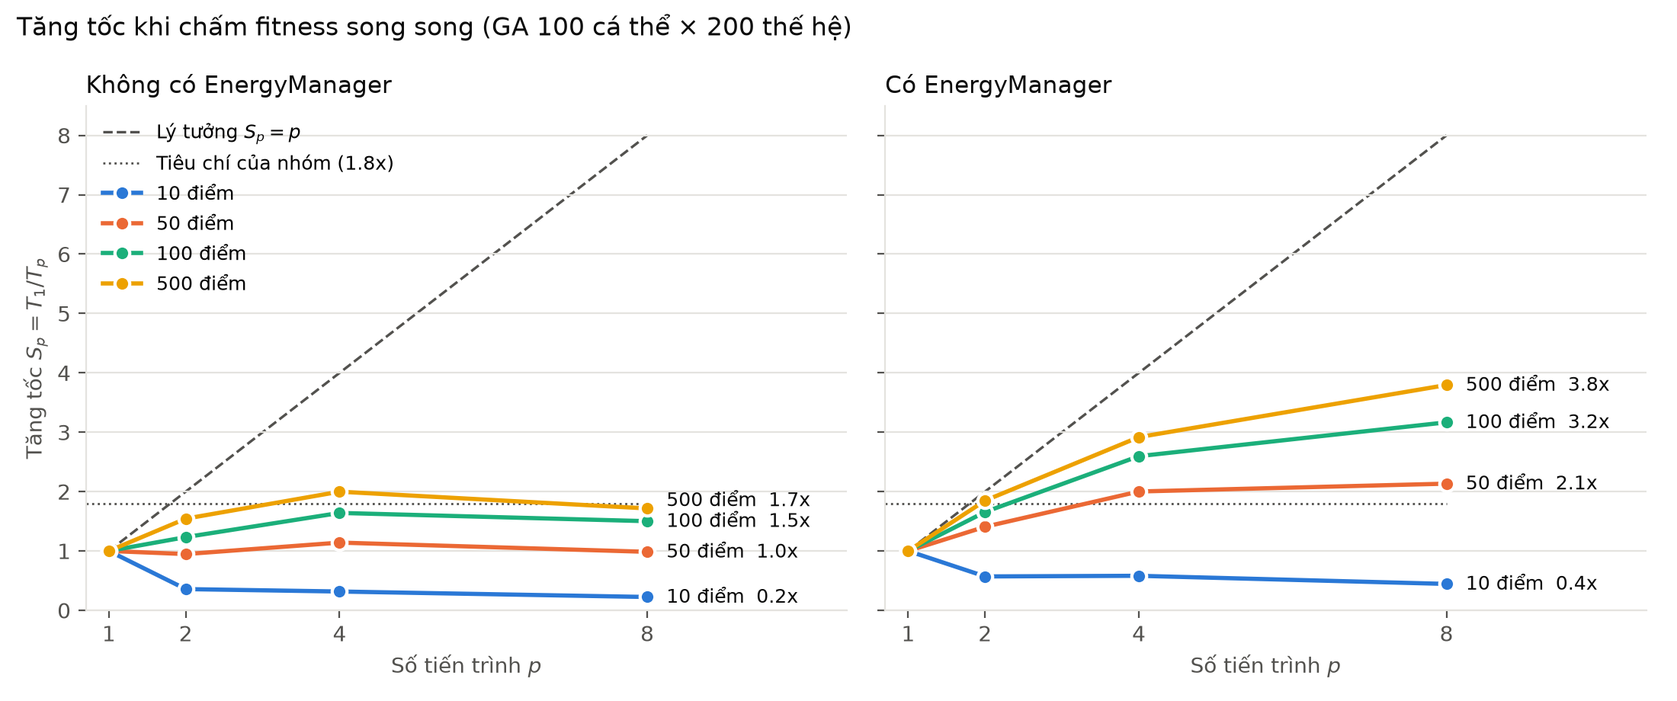
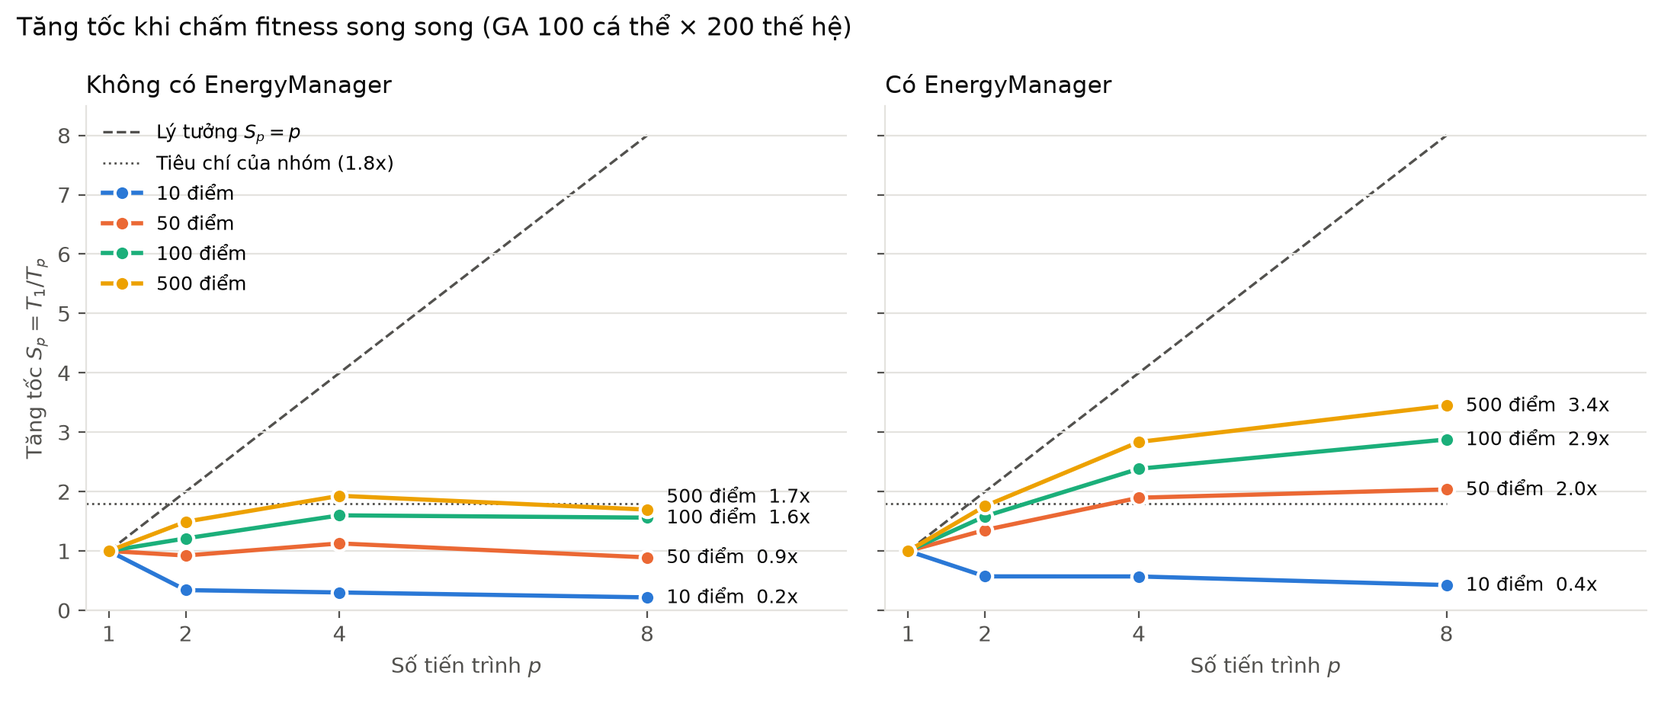
docs: số liệu chốt sau khi sửa 2-Opt/validator, đo lại speedup, sửa tài liệu độ phức tạp và mô hình toán
- GA_TUNING_RESULTS.md mục 13 (số chốt): GA so với Greedy -5.68% / -5.13% / -9.14% ở 10 / 50 / 100 điểm;
  500 điểm GA +7.74% nhưng là lời giải hợp lệ duy nhất (Greedy 6 tuyến cạn pin, validator báo không hợp lệ;
  Greedy 100 điểm cũng không hợp lệ). GA 0 tuyến cạn pin ở mọi quy mô.
- Mục 10 đo lại speedup với EnergyManager mới: 500 điểm 836.6 -> 533.1 ms/thế hệ, S_4 = 2.84x, S_8 = 3.45x;
  data/processed/ga_speedup_results.csv, docs/figures/ga_speedup.png.
- COMPLEXITY_AND_CORRECTNESS_ANALYSIS.md (TV5, được cho phép): độ phức tạp GA O(G·P·(L·C + log P)) có
  EnergyManager + bản song song; ProcessPoolExecutor; hằng số 2-Opt (1e-4, 50 vòng) + lưu ý chi phí;
  phát biểu lại Định lý 4 (Depot là điểm sạc, an toàn pin có điều kiện, chứng minh tính dừng) và
  Định lý 5 (theo thước đo chọn lọc); thay bảng IV.1 (tỷ số đo được) bằng phép kiểm tra ms ÷ L, ÷ L·C.
- Mathematical_Model.md: thêm năng lượng vào hàm mục tiêu (β = 1.5, γ = 5 như code), ràng buộc tải trọng,
  khung giờ, pin (>= 15% khi tới điểm giao, >= 0 khi tới điểm sạc).
- BAO_CAO_TONG_KET_DE_TAI.md §5: sửa đường dẫn trỏ vào máy TV5, độ phức tạp GA, Định lý 3/4/5.
- benchmark_evaluator: câu đánh giá pin đếm trên mọi quy mô thay vì luôn ghi "100% an toàn".
- GA_COMPLEXITY_REVIEW.md: đánh dấu đã áp dụng; TV1_CONTRIBUTION.md theo số mới.

diff --git a/src/utils/benchmark_evaluator.py b/src/utils/benchmark_evaluator.py
@@ -445,7 +445,13 @@ class BenchmarkEvaluator:
                 first = df.iloc[0]
                 savings_pct = ((first['greedy_energy'] - first['ga_energy']) / first['greedy_energy']) * 100.0 if first['greedy_energy'] > 0 else 0.0
                 f.write(f"- **Mức tiết kiệm năng lượng của GA so với Greedy:** **{savings_pct:.2f}%** (Greedy = **{first['greedy_energy']:.2f} Wh**, GA = **{first['ga_energy']:.2f} Wh**).\n")
-                f.write(f"- **Đánh giá An toàn Pin:** Greedy có **{first['greedy_unsafe_routes']}** tuyến không an toàn, GA có **{first['ga_unsafe_routes']}** tuyến không an toàn; do đó **100% các chuyến bay đều đáp ứng điều kiện pin an toàn** trên dữ liệu thực nghiệm hiện tại.\n")
+                # Đếm trên mọi quy mô (không chỉ dòng đầu); kết luận theo số đếm thực tế
+                unsafe_g, unsafe_ga = int(df["greedy_unsafe_routes"].sum()), int(df["ga_unsafe_routes"].sum())
+                if unsafe_g + unsafe_ga == 0:
+                    verdict = "không chuyến bay nào cạn pin trên các quy mô đã chạy"
+                else:
+                    verdict = "các lời giải có tuyến cạn pin bị validator đánh dấu không hợp lệ"
+                f.write(f"- **Đánh giá An toàn Pin (tổng trên {len(df)} quy mô):** Greedy có **{unsafe_g}** tuyến cạn pin, GA có **{unsafe_ga}** tuyến cạn pin; {verdict}.\n")
                 f.write(f"- **Greedy:** tổng năng lượng = **{first['greedy_energy']:.2f} Wh**, số lần sạc = **{int(first['greedy_charging_events'])}**, tổng thời gian sạc = **{first['greedy_total_charge_time_min']:.2f} phút**.\n")
                 f.write(f"- **GA:** tổng năng lượng = **{first['ga_energy']:.2f} Wh**, số lần sạc = **{int(first['ga_charging_events'])}**, tổng thời gian sạc = **{first['ga_total_charge_time_min']:.2f} phút**.\n")
                 f.write(f"- **Ví dụ chi tiết chặng bay (GA):** {first.get('ga_energy_sample', 'Không có dữ liệu chi tiết')}.\n")

diff --git a/docs/GA_TUNING_RESULTS.md b/docs/GA_TUNING_RESULTS.md
@@ -1,7 +1,7 @@
 # Tinh chỉnh & đánh giá Giải thuật Di truyền (GA)
 **Phụ trách:** Thành viên 1 (GA Core Engine) · **Ngày:** 16/10/2026 · **Script:** `src/utils/ga_tuning.py`
 
-> **Cập nhật 25/10/2026:** mục 1–9 đo trên dữ liệu benchmark ngày 16/10. Sau đó TV4 đã đổi khối lượng hàng. Số liệu trên dữ liệu hiện tại (10 / 50 / 100 / 500 điểm, có tỷ lệ đúng giờ và số tuyến thiếu pin) ở **mục 12** (EnergyManager mới của TV3; mục 11 là cùng thực nghiệm với EnergyManager cũ); Speedup song song ở **mục 10**.
+> **Cập nhật 25/10/2026:** mục 1–9 đo trên dữ liệu benchmark ngày 16/10. Sau đó TV4 đã đổi khối lượng hàng. Số liệu trên dữ liệu hiện tại (10 / 50 / 100 / 500 điểm, có tỷ lệ đúng giờ và số tuyến thiếu pin) ở **mục 13** (số liệu chốt: EnergyManager mới của TV3, 2-Opt có kiểm tra chi phí, validator kiểm tra pin; mục 11–12 là các lần đo trước đó); Speedup song song ở **mục 10**.
 
 ## 1. Kết luận chính
 | Quy mô | Greedy + 2-Opt | GA trước tinh chỉnh (cấu hình cũ của pipeline) | GA sau tinh chỉnh (đề xuất) |
@@ -137,21 +137,25 @@ Lệnh `compare` mất khoảng 1 giờ trên máy thường (phần lớn ở b
 
 | Quy mô (độ dài chromosome) | EnergyManager | $T_1$ (s) | ms / thế hệ ($p$ = 1) | $S_2$ | $S_4$ | $S_8$ | $E_4$ |
 | :---: | :---: | ---: | ---: | ---: | ---: | ---: | ---: |
-| 10 điểm (12) | không | 0.35 | 1.7 | 0.36x | 0.32x | 0.22x | 7.9% |
-| 10 điểm (12) | có | 0.68 | 3.4 | 0.57x | 0.58x | 0.44x | 14.5% |
-| 50 điểm (64) | không | 1.71 | 8.5 | 0.95x | 1.14x | 0.99x | 28.5% |
-| 50 điểm (64) | có | 5.03 | 25.2 | 1.41x | **2.00x** | 2.13x | 50.0% |
-| 100 điểm (130) | không | 3.37 | 16.9 | 1.23x | 1.64x | 1.50x | 41.0% |
-| 100 điểm (130) | có | 13.64 | 68.2 | 1.66x | **2.60x** | 3.17x | 64.9% |
-| 500 điểm (649) | không | 17.08 | 85.4 | 1.54x | **2.00x** | 1.72x | 50.0% |
-| 500 điểm (649) | có | 167.32 | 836.6 | **1.85x** | **2.92x** | **3.80x** | 72.9% |
+> **Đo lại 25/10 tối** với EnergyManager mới của TV3 (`faea2f0`: Depot là điểm sạc, không lọc lại danh sách trạm sạc mỗi lần gọi). Mỗi thế hệ có EnergyManager nhanh hơn (500 điểm: 836.6 → 533.1 ms), còn tăng tốc giảm nhẹ (500 điểm: $S_4$ 2.92x → 2.84x, $S_8$ 3.80x → 3.45x) vì phần việc chia được nhẹ đi trong khi phần không chia được giữ nguyên (định luật Amdahl). Bảng dưới là số đo mới; mọi $p$ vẫn cho cùng lời giải và cùng history với chạy tuần tự.
+
+| Quy mô (độ dài chromosome) | EnergyManager | $T_1$ (s) | ms / thế hệ ($p$ = 1) | $S_2$ | $S_4$ | $S_8$ | $E_4$ |
+| :---: | :---: | ---: | ---: | ---: | ---: | ---: | ---: |
+| 10 điểm (12) | không | 0.33 | 1.6 | 0.34x | 0.30x | 0.22x | 7.5% |
+| 10 điểm (12) | có | 0.65 | 3.3 | 0.57x | 0.57x | 0.43x | 14.3% |
+| 50 điểm (64) | không | 1.70 | 8.5 | 0.92x | 1.13x | 0.89x | 28.2% |
+| 50 điểm (64) | có | 4.64 | 23.2 | 1.35x | **1.90x** | **2.04x** | 47.4% |
+| 100 điểm (130) | không | 3.30 | 16.5 | 1.21x | 1.60x | 1.56x | 40.0% |
+| 100 điểm (130) | có | 11.46 | 57.3 | 1.58x | **2.38x** | **2.88x** | 59.6% |
+| 500 điểm (649) | không | 16.77 | 83.8 | 1.49x | **1.93x** | 1.70x | 48.2% |
+| 500 điểm (649) | có | 106.63 | 533.1 | 1.76x | **2.84x** | **3.45x** | 70.9% |
 
 $S_p = T_1 / T_p$, $E_p = S_p / p$. Đậm: đạt tiêu chí của nhóm ($S \ge 1.8$).
 
 **Phân tích:**
-1. **Tăng tốc phụ thuộc chi phí chấm một cá thể.** Ở 500 điểm có EnergyManager, mỗi lần chấm tốn khoảng 8 ms (chèn trạm sạc cho 150 tuyến), nên 4 tiến trình đạt 2.92x và 8 tiến trình đạt 3.80x. Không có EnergyManager, mỗi lần chấm chỉ khoảng 1 ms, nên 4 tiến trình chỉ đạt 2.00x.
-2. **Bài nhỏ chạy song song chậm hơn.** Ở 10 điểm, cả 200 thế hệ chỉ tốn 0.35–0.68 s, ít hơn thời gian khởi động Pool. Trên Windows, mỗi tiến trình con khởi động Python mới và nạp lại `pipeline` cùng matplotlib (~0.6 s; cả Pool 4 tiến trình ~2.5 s ở 500 điểm). Vì vậy nên để `num_workers=None` (tuần tự) khi N ≤ 50 và không dùng EnergyManager.
-3. **Phần không song song được.** Chỉ số Karp-Flatt $e = (1/S_p - 1/p)/(1 - 1/p)$ ở 500 điểm có EnergyManager là 0.08 / 0.12 / 0.16 với p = 2 / 4 / 8. Phần này gồm khởi động Pool, chọn lọc + OX + đột biến ở tiến trình chính (~7 ms / thế hệ) và chi phí gửi chromosome giữa các tiến trình. $e$ tăng theo p, một phần vì chi phí khởi động Pool tăng theo số tiến trình, một phần do nhân tiết kiệm điện (mục 4).
+1. **Tăng tốc phụ thuộc chi phí chấm một cá thể.** Ở 500 điểm có EnergyManager, mỗi lần chấm tốn khoảng 5 ms (chèn trạm sạc cho 150 tuyến), nên 4 tiến trình đạt 2.84x và 8 tiến trình đạt 3.45x. Không có EnergyManager, mỗi lần chấm chỉ khoảng 1 ms, nên 4 tiến trình chỉ đạt 1.93x.
+2. **Bài nhỏ chạy song song chậm hơn.** Ở 10 điểm, cả 200 thế hệ chỉ tốn 0.33–0.65 s, ít hơn thời gian khởi động Pool. Trên Windows, mỗi tiến trình con khởi động Python mới và nạp lại `pipeline` cùng matplotlib (~0.6 s; cả Pool 4 tiến trình ~2.5 s ở 500 điểm). Vì vậy nên để `num_workers=None` (tuần tự) khi N ≤ 50 và không dùng EnergyManager.
+3. **Phần không song song được.** Chỉ số Karp-Flatt $e = (1/S_p - 1/p)/(1 - 1/p)$ ở 500 điểm có EnergyManager là 0.14 / 0.14 / 0.19 với p = 2 / 4 / 8 (đo với EnergyManager cũ: 0.08 / 0.12 / 0.16). Phần này gồm khởi động Pool, chọn lọc + OX + đột biến ở tiến trình chính (~7 ms / thế hệ) và chi phí gửi chromosome giữa các tiến trình. $e$ tăng theo p, một phần vì chi phí khởi động Pool tăng theo số tiến trình, một phần do nhân tiết kiệm điện (mục 4).
 4. **Từ 4 lên 8 tiến trình lợi ít.** Tiến trình thứ 5 trở đi chạy trên nhân tiết kiệm điện, chậm hơn. Ở 500 điểm không có EnergyManager, 8 tiến trình còn chậm hơn 4 tiến trình.
 5. **Số đo trên là cận dưới.** Pipeline mặc định chạy 2000 thế hệ, gấp 10 lần ở đây, nên chi phí khởi động Pool (cố định) chiếm tỷ lệ nhỏ hơn nhiều và tăng tốc thực tế sẽ cao hơn. Đây là suy luận, chưa đo.
 
@@ -228,6 +232,8 @@ python src/utils/ga_tuning.py compare --scales 500 --seeds 3 --pop-size 100 --mu
 ```
 
 ## 12. Chạy lại mục 11 với EnergyManager mới của TV3 (cập nhật 25/10/2026)
+> Số liệu hiện hành ở **mục 13** (sau khi sửa 2-Opt và validator).
+
 **Thay đổi so với mục 11:**
 - `EnergyManager` sau commit `faea2f0` của TV3 (`develop` `0ae7a4a`): khi cần sạc, Drone có thể **ghé depot** như một trạm sạc; danh sách trạm sạc không còn lọc lại mỗi lần gọi. Ngưỡng 15% áp dụng khi bay tới điểm giao; khi tới depot / trạm sạc chỉ cần pin không âm.
 - Sửa thước đo của `ga_tuning.py`: cột "trước 2-Opt" nay chèn trạm sạc rồi kiểm tra pin âm bằng `calculate_route_energy`, giống cột "Tuyến thiếu pin" và giống phép phạt của `FitnessCalculator`. Trước đây cột này dùng cờ của `repair_route_with_charging`, cờ đó còn báo cả tuyến chỉ xuống dưới 15% (vd. seed 0 ở 500 điểm: 2 tuyến về đích với 2.5% pin, không cạn).
@@ -257,6 +263,36 @@ Mọi lời giải đều được validator báo hợp lệ.
 3. **500 điểm:** GA vẫn đắt hơn Greedy, nhưng khoảng cách thu hẹp từ +11.13% xuống **+8.33%**, độ lệch chuẩn giảm một nửa (±8024.58 → ±4089.89). Greedy vẫn có **6 / 150 tuyến thiếu pin**: tổng chi phí 95208.86 = 29474.74 (quãng đường) + 1.5 × 39021.51 (năng lượng) + 1201.85 (trễ giờ) + 6000 (phạt pin). Lý do điểm khởi tạo Greedy mất tác dụng giữ nguyên như mục 11.
 4. **2-Opt vẫn làm hỏng pin:** lời giải GA có **0 tuyến cạn pin trước 2-Opt ở cả 3 seed**; sau 2-Opt seed 0 có 2 tuyến cạn pin (pin xuống −44% và −62% của dung lượng), seed 1 và 2 không có.
 5. **Hội tụ:** cost chọn lọc trung bình giảm trong 1/4 số thế hệ cuối: 0% / 0.77% / 1.57% / 0.88% ở 10 / 50 / 100 / 500 điểm; 100 và 500 điểm vẫn chưa hội tụ hẳn.
-6. **Thời gian GA giảm 30–40%** ở 50 / 100 / 500 điểm (19.1 → 13.2 s, 35.4 → 25.2 s, 298.3 → 176.1 s) do `repair_route_with_charging` mới không lọc lại danh sách trạm sạc. Speedup ở mục 10 đo với bản cũ.
+6. **Thời gian GA giảm 30–40%** ở 50 / 100 / 500 điểm (19.1 → 13.2 s, 35.4 → 25.2 s, 298.3 → 176.1 s) do `repair_route_with_charging` mới không lọc lại danh sách trạm sạc. Mục 10 đã đo lại với bản mới.
+
+**Tái lập** (khoảng 20 phút): cùng 3 lệnh như mục 11.
+
+## 13. Số liệu chốt: 2-Opt có kiểm tra chi phí, validator kiểm tra pin (cập nhật 25/10/2026)
+**Thay đổi so với mục 12** (commit `9f7a51d`, `2024e7c`; user được nhóm cho phép sửa code TV5 / TV6):
+- **2-Opt có kiểm tra chi phí:** `apply_2opt_to_solution(solution, dist, route_cost)` chỉ giữ tuyến sau 2-Opt nếu chi phí tuyến (sau khi chèn trạm sạc, gồm năng lượng, trễ giờ, phạt pin) không tăng. Pipeline và `BenchmarkEvaluator` truyền `UAVRoutingPipeline.route_cost_after_charging`. Lý do: mục 11–12 cho thấy 2-Opt (chỉ xét quãng đường) làm Greedy đắt hơn so với không chạy 2-Opt ở 50 / 100 / 500 điểm, và làm 2 tuyến GA ở 500 điểm cạn pin.
+- **Validator kiểm tra pin:** tuyến mà `EnergyManager.calculate_route_energy` báo cạn pin là không hợp lệ (ràng buộc 4.2 của `Mathematical_Model.md`). Lần chạy 500 điểm dùng validator mới; ở 10 / 50 / 100 điểm cột "Hợp lệ" dưới đây tính lại từ cột "Tuyến thiếu pin" (cùng phép kiểm tra).
+- GA không đổi (2-Opt và chèn trạm sạc chạy sau GA): đường hội tụ trùng mục 12.
+
+| Quy mô | K | Greedy + 2-Opt | Hợp lệ (Greedy) | GA đề xuất (TB ± ĐLC) | Hợp lệ (GA) | Chênh lệch tổng chi phí | Đúng giờ Greedy → GA | Tuyến thiếu pin Greedy → GA | Thời gian GA (s) |
+| :---: | :---: | ---: | :---: | ---: | :---: | :---: | :---: | :---: | ---: |
+| 10 điểm | 3 | 749.02 | 1/1 | 706.50 ± 0.00 | 5/5 | **−5.68%** | 100.0% → 100.0% | 0 → 0 | 5.8 |
+| 50 điểm | 15 | 4001.64 | 1/1 | 3796.41 ± 45.36 | 5/5 | **−5.13%** | 98.0% → 99.2% | 0 → 0 | 13.9 |
+| 100 điểm | 31 | 12857.92 | **0/1** | 11683.20 ± 187.89 | 5/5 | **−9.14%** | 94.0% → 97.6% | **1 → 0** | 25.4 |
+| 500 điểm | 150 | 94417.74 | **0/1** | 101722.04 ± 3169.24 | 3/3 | +7.74% | 95.0% → 94.5% | **6 → 0** | 180.3 |
+
+**Thang cải tiến** (chênh lệch tổng chi phí so với Greedy, 5 seed):
+
+| Biến thể GA | 10 điểm | 50 điểm | 100 điểm |
+| :--- | :---: | :---: | :---: |
+| Cấu hình cũ của pipeline (80 thế hệ, 50 cá thể, phạt gốc) | −1.05% | +48.17% (3/5 hợp lệ) | +70.67% (0/5 hợp lệ) |
+| Tham số tinh chỉnh | −2.31% | +5.14% | +9.02% |
+| + EnergyManager | −5.68% | +7.38% | +8.27% |
+| + khởi tạo từ Greedy (GA đề xuất) | **−5.68%** | **−5.13%** | **−9.14%** |
+
+**Phân tích:**
+1. **Kiểm tra chi phí giúp cả hai thuật toán:** Greedy 50 / 100 / 500 điểm giảm 4039.25 → 4001.64, 12967.07 → 12857.92, 95208.86 → 94417.74; GA 500 điểm giảm 103140.25 → 101722.04 và hết tuyến cạn pin (0.7 → 0 tuyến trung bình). 10 điểm không đổi (không bước 2-Opt nào bị bỏ).
+2. **10–100 điểm:** GA đề xuất rẻ hơn Greedy 5.1–9.1%, tỷ lệ đúng giờ cao hơn hoặc bằng. Ở 100 điểm, lời giải Greedy **không hợp lệ** (1 Drone cạn pin), mọi lời giải GA hợp lệ.
+3. **500 điểm: chỉ GA cho lời giải hợp lệ.** Greedy rẻ hơn 7.74% nhưng 6 / 150 Drone cạn pin giữa đường (phạt 6000 trong tổng chi phí; bỏ phạt thì Greedy 88417.74). GA hợp lệ ở cả 3 seed, đổi lại bay xa hơn 15.9% (34049 so với 29370 km). GA chưa hội tụ sau 2000 thế hệ (1/4 cuối còn giảm 0.88%).
+4. Kết luận "GA ≤ Greedy" chỉ nên phát biểu trên các lời giải hợp lệ: ở mọi quy mô, GA cho chi phí thấp hơn mọi lời giải Greedy hợp lệ, và ở 100 / 500 điểm Greedy không có lời giải hợp lệ.
 
 **Tái lập** (khoảng 20 phút): cùng 3 lệnh như mục 11.

diff --git a/docs/TV1_CONTRIBUTION.md b/docs/TV1_CONTRIBUTION.md
@@ -216,8 +216,8 @@ Với code của thành viên khác, em không sửa âm thầm: em gửi đề 
 | Một ô `inf` trong ma trận làm mọi fitness bằng 0 | Dữ liệu và ma trận khoảng cách (TV2, TV4) | Báo nhóm | Benchmark hiện không có cặp nào không tới được; pipeline thay `inf` bằng Euclid × 2 |
 | Cờ `--parallel` của `main.py` không có tác dụng với GA | `pipeline.py` (TV5) | TV5 đồng ý cho sửa: `solve_ga` nhận `num_workers` (`c1da04c`) | PR #11 |
 | Bảng §3 của `BAO_CAO_TONG_KET_DE_TAI.md`: dòng N = 20/30/50 không có nguồn, số Drone K sai công thức của `benchmark_evaluator.py` | Báo cáo tổng kết (TV5) | Chạy lại bằng `BenchmarkEvaluator.evaluate_scale`; TV5 đồng ý sửa (`fb6b6d4`) | PR #12 |
-| Lời giải Greedy ở 100 / 500 điểm có 1 / 6 tuyến thiếu pin kể cả sau khi chèn trạm sạc, nhưng validator vẫn báo hợp lệ; phạt 1000 / tuyến quá nhẹ | `validator.py`, `fitness.py` (TV5) | Thêm cột "Tuyến thiếu pin" vào thực nghiệm; gửi đề xuất kèm số liệu | Chờ TV5 phản hồi |
-| 2-Opt làm tuyến đủ pin thành thiếu pin (GA ở 500 điểm, seed 0: 0 tuyến trước, 2 tuyến sau 2-Opt) | `local_search.py` (TV6) | Đo trước và sau 2-Opt; gửi đề xuất | Chờ TV6 phản hồi |
+| Lời giải Greedy ở 100 / 500 điểm có 1 / 6 tuyến thiếu pin kể cả sau khi chèn trạm sạc, nhưng validator vẫn báo hợp lệ; phạt 1000 / tuyến quá nhẹ | `validator.py`, `fitness.py` (TV5) | Thêm cột "Tuyến thiếu pin" vào thực nghiệm; validator kiểm tra tuyến cạn pin (`2024e7c`) | Đã sửa (được nhóm cho phép) |
+| 2-Opt làm tuyến đủ pin thành thiếu pin (GA ở 500 điểm, seed 0: 0 tuyến trước, 2 tuyến sau 2-Opt) và làm tăng tổng chi phí | `local_search.py` (TV6), `pipeline.py` (TV5) | Đo trước và sau 2-Opt; 2-Opt chỉ nhận bước đảo không làm tăng chi phí tuyến (`9f7a51d`) | Đã sửa (được nhóm cho phép) |
 | Độ phức tạp GA thiếu số hạng EnergyManager; Định lý 5 phát biểu quá mạnh; bảng mục IV lấy tỷ số thời gian đo làm cột lý thuyết | `COMPLEXITY_AND_CORRECTNESS_ANALYSIS.md` (TV5) | Rà soát, đề xuất thay thế kèm số đo (`docs/GA_COMPLEXITY_REVIEW.md`) | Chờ TV5 phản hồi |
 | Định lý 4: chặng tới trạm sạc được chèn chỉ bảo đảm pin ≥ 0; danh sách trạm sạc được lọc lại ở mỗi lần gọi (~40% thời gian chèn trạm sạc ở 500 điểm) | `energy_manager.py` (TV3) | Đề xuất trong `docs/GA_COMPLEXITY_REVIEW.md` mục 6 | Chờ TV3 phản hồi |
 
@@ -229,17 +229,18 @@ Với code của thành viên khác, em không sửa âm thầm: em gửi đề 
   - Mỗi thế hệ chỉ gửi các cá thể chưa có trong cache.
   - Mọi bước ngẫu nhiên vẫn ở tiến trình chính, nên cùng seed thì kết quả **trùng hoàn toàn** với chạy tuần tự. Test 12 trong `tests/test_ga.py` kiểm tra điều này.
   - Pipeline: cờ `--parallel / --workers` nay áp dụng cho cả GA.
-- **Đo tăng tốc** (lệnh `ga_tuning.py speedup`, 100 cá thể × 200 thế hệ, có EnergyManager): $S_4$ = 2.00 / 2.60 / 2.92 ở 50 / 100 / 500 điểm, $S_8$ = 3.80 ở 500 điểm; đạt tiêu chí 1.8 lần của nhóm từ 50 điểm. Bài 10 điểm chạy song song chậm hơn vì khởi động tiến trình (~0.6 s mỗi tiến trình trên Windows) lâu hơn cả thời gian tính. Biểu đồ: `docs/figures/ga_speedup.png`; chi tiết: `GA_TUNING_RESULTS.md` mục 10.
-- **Thực nghiệm trên dữ liệu mới** (`GA_TUNING_RESULTS.md` mục 11, chạy lại ở mục 12 với EnergyManager mới của TV3 — Drone được ghé depot để sạc; `compare` có thêm cột đúng giờ và tuyến thiếu pin; chạy 2 lần cùng seed, trùng mọi cột trừ thời gian). Số dưới đây theo mục 12:
+- **Đo tăng tốc** (lệnh `ga_tuning.py speedup`, 100 cá thể × 200 thế hệ, có EnergyManager): $S_4$ = 1.90 / 2.38 / 2.84 ở 50 / 100 / 500 điểm, $S_8$ = 3.45 ở 500 điểm (đo lại với EnergyManager mới của TV3; bản cũ: $S_4$ = 2.00 / 2.60 / 2.92, $S_8$ = 3.80); đạt tiêu chí 1.8 lần của nhóm từ 50 điểm. Bài 10 điểm chạy song song chậm hơn vì khởi động tiến trình (~0.6 s mỗi tiến trình trên Windows) lâu hơn cả thời gian tính. Biểu đồ: `docs/figures/ga_speedup.png`; chi tiết: `GA_TUNING_RESULTS.md` mục 10.
+- **Thực nghiệm trên dữ liệu mới** (`GA_TUNING_RESULTS.md` mục 11, chạy lại ở mục 12 với EnergyManager mới của TV3 — Drone được ghé depot để sạc, và ở mục 13 sau khi sửa 2-Opt / validator; `compare` có thêm cột đúng giờ và tuyến thiếu pin; chạy 2 lần cùng seed, trùng mọi cột trừ thời gian). Số dưới đây theo mục 13 (số chốt):
 
-| Quy mô | Greedy + 2-Opt | GA đề xuất | Chênh lệch | Đúng giờ Greedy → GA | Tuyến thiếu pin Greedy → GA |
-| :---: | ---: | ---: | :---: | :---: | :---: |
-| 10 điểm (K = 3) | 749.02 | 706.50 ± 0.00 | **−5.68%** | 100.0% → 100.0% | 0 → 0 |
-| 50 điểm (K = 15) | 4039.25 | 3806.67 ± 45.79 | **−5.76%** | 98.0% → 99.6% | 0 → 0 |
-| 100 điểm (K = 31) | 12967.07 | 11742.24 ± 251.35 | **−9.45%** | 94.0% → 96.6% | 1 → 0 |
-| 500 điểm (K = 150) | 95208.86 | 103140.25 ± 4089.89 | +8.33% | 93.8% → 93.3% | 6 → 0.7 |
+| Quy mô | Greedy + 2-Opt | GA đề xuất | Chênh lệch | Đúng giờ Greedy → GA | Tuyến thiếu pin Greedy → GA | Hợp lệ Greedy / GA |
+| :---: | ---: | ---: | :---: | :---: | :---: | :---: |
+| 10 điểm (K = 3) | 749.02 | 706.50 ± 0.00 | **−5.68%** | 100.0% → 100.0% | 0 → 0 | 1/1 / 5/5 |
+| 50 điểm (K = 15) | 4001.64 | 3796.41 ± 45.36 | **−5.13%** | 98.0% → 99.2% | 0 → 0 | 1/1 / 5/5 |
+| 100 điểm (K = 31) | 12857.92 | 11683.20 ± 187.89 | **−9.14%** | 94.0% → 97.6% | 1 → 0 | **0/1** / 5/5 |
+| 500 điểm (K = 150) | 94417.74 | 101722.04 ± 3169.24 | +7.74% | 95.0% → 94.5% | 6 → 0 | **0/1** / 3/3 |
 
-- **Giải thích 500 điểm:** Greedy rẻ hơn vì 6/150 Drone không đủ pin bay hết tuyến mà chỉ bị phạt 1000 mỗi tuyến. GA nhân phạt ×100 nên tìm lời giải đủ pin cho mọi Drone (0 tuyến cạn pin trước 2-Opt ở cả 3 seed), đổi lại bay xa hơn 15.7%. Tuyến thiếu pin của GA (2 tuyến ở seed 0) do 2-Opt gây ra. GA ở 500 điểm chưa hội tụ sau 2000 thế hệ.
+- **Giải thích 500 điểm:** Greedy rẻ hơn vì 6/150 Drone không đủ pin bay hết tuyến mà chỉ bị phạt 1000 mỗi tuyến; với validator mới, lời giải đó không hợp lệ. GA nhân phạt ×100 nên tìm lời giải đủ pin cho mọi Drone, đổi lại bay xa hơn 15.9%. GA ở 500 điểm chưa hội tụ sau 2000 thế hệ.
+- **Sửa 2-Opt và validator** (được nhóm cho phép): 2-Opt chỉ nhận bước đảo không làm tăng chi phí tuyến (trước đó 2-Opt làm Greedy đắt hơn so với không chạy 2-Opt, và làm 2 tuyến GA ở 500 điểm cạn pin); validator báo không hợp lệ khi có tuyến cạn pin.
 - **Phân tích độ phức tạp** (`docs/GA_COMPLEXITY_REVIEW.md`): với EnergyManager, mỗi lần đánh giá tốn $O(K \cdot M + L \cdot C)$, nên $T_{GA} = O(G \cdot P \cdot (K \cdot M + L \cdot C + \log P))$; không có EnergyManager là $O(G \cdot P \cdot (L + \log P))$. Đối chiếu số đo: thời gian mỗi thế hệ chia cho $L$ gần như không đổi (0.13–0.14 ms) dù $L$ tăng 54 lần. Viết lại phát biểu Định lý 5 cho chính xác (chỉ đúng theo thước đo chọn lọc, trước 2-Opt) kèm phản ví dụ 500 điểm.
 - **Báo cáo và slide phần GA:** file Word (8 trang) và slide (12 trang, có ghi chú người nói), nộp theo hướng dẫn của TV5.
 

diff --git a/docs/Mathematical_Model.md b/docs/Mathematical_Model.md
@@ -1,35 +1,49 @@
 # Mô hình Toán học: Bài toán Định tuyến UAV (UDRP)
 
-## 1. Phát biểu bài toán (Problem Statement)
-Bài toán tối ưu hóa định tuyến cho mạng giao vận Drone (UAV Delivery Routing Problem - UDRP) yêu cầu phân bổ các tuyến bay từ trạm gốc (Depot) đến một tập hợp các điểm giao hàng (Delivery points) sao cho đáp ứng các yêu cầu về giới hạn pin, tải trọng, và né tránh khu vực cấm bay (No-fly zones).
+> **Cập nhật 25/10/2026 (TV1, được TV5 cho phép):** sửa cho khớp code (`src/algorithms/fitness.py`, `src/algorithms/energy_manager.py`): thêm số hạng năng lượng vào hàm mục tiêu và đổi ký hiệu cho trùng code (β: năng lượng, γ: phạt trễ giờ); thêm ràng buộc tải trọng và khung giờ; ghi rõ ngưỡng pin khi tới điểm giao và khi tới điểm sạc.
 
-## 2. Biến quyết định (Decision Variables)
-- $x_{ijk} \in \{0, 1\}$: Biến nhị phân bằng `1` nếu UAV $k$ bay thẳng từ điểm $i$ đến điểm $j$, ngược lại bằng `0`.
-- $t_i$: Biến liên tục thể hiện thời điểm UAV đến điểm $i$.
-- $E_i$: Lượng pin còn lại của UAV khi đến điểm $i$.
+## 1. Phát biểu bài toán (Problem Statement)
+Bài toán tối ưu hóa định tuyến cho mạng giao vận Drone (UAV Delivery Routing Problem - UDRP) yêu cầu phân bổ các tuyến bay từ trạm gốc (Depot) đến một tập hợp các điểm giao hàng (Delivery points) sao cho đáp ứng các yêu cầu về giới hạn pin, tải trọng, khung giờ giao hàng và né tránh khu vực cấm bay (No-fly zones). Mỗi Drone bay **một chuyến**: xuất phát từ Depot với toàn bộ hàng của tuyến, có thể ghé trạm sạc hoặc Depot để sạc giữa đường, và kết thúc ở Depot.
+
+## 2. Tập hợp, tham số và biến quyết định
+- $V = \{0\} \cup V_D \cup V_C$: Depot (0), tập $N$ điểm giao hàng $V_D$ và tập $C$ trạm sạc $V_C$. Tập điểm sạc $S = V_C \cup \{0\}$.
+- $K$: tập các UAV; $Q_{max} = 5$ kg: tải tối đa; $B_{max} = 300$ Wh: dung lượng pin; $B_{safe} = 0.15 \cdot B_{max}$: ngưỡng an toàn.
+- $q_i$: khối lượng hàng của khách $i$; $[e_i, l_i]$: khung giờ; $s_i$: thời gian phục vụ (giao hàng hoặc sạc); $v = 10$ đơn vị khoảng cách / phút: vận tốc bay.
+- $d_{ij}$: độ dài đường bay thực tế từ $i$ đến $j$, tính bằng **A*** né vùng cấm bay.
+- $x_{ijk} \in \{0, 1\}$: bằng `1` nếu UAV $k$ bay thẳng từ điểm $i$ đến điểm $j$.
+- $t_i$: thời điểm UAV đến điểm $i$; $w_{ij}$: khối lượng hàng còn trên Drone khi bay chặng $(i, j)$; $E_i$: pin còn lại khi đến điểm $i$.
 
 ## 3. Hàm mục tiêu (Objective Function)
-Mục tiêu là tối thiểu hóa tổng chi phí hoạt động, bao gồm thời gian di chuyển, chi phí năng lượng tiêu thụ, và khoản phạt nếu giao trễ giờ (Time Windows).
+Tối thiểu hóa tổng chi phí: quãng đường, năng lượng tiêu thụ và phạt giao trễ giờ.
 
-$$ \text{Minimize} \quad Z = \alpha \sum_{k \in K} \sum_{i \in V} \sum_{j \in V} d_{ij} x_{ijk} + \beta \sum_{i \in V} \max(0, t_i - L_i) $$
+$$ \text{Minimize} \quad Z = \alpha \sum_{k \in K} \sum_{i, j \in V} d_{ij} x_{ijk} + \beta \sum_{k \in K} \sum_{i, j \in V} e_{ij}\, x_{ijk} + \gamma \sum_{i \in V} \max(0, t_i - l_i) $$
 
 Trong đó:
-- $V = \{0, 1, 2, ..., n, n+1\}$: Tập hợp các đỉnh, bao gồm Depot (0), các điểm giao hàng và các điểm sạc.
-- $K$: Tập hợp các UAV.
-- $d_{ij}$: Chi phí khoảng cách/thời gian bay thực tế từ $i$ đến $j$ (Được tính toán bởi thuật toán **A*** để tự động né tránh vùng cấm bay).
-- $L_i$: Thời hạn giao hàng muộn nhất tại $i$.
-- $\alpha, \beta$: Trọng số cân bằng giữa chi phí năng lượng và chi phí thời gian.
+- $e_{ij} = d_{ij} \cdot (1 + 0.15 \cdot w_{ij})$: năng lượng của chặng $(i, j)$, tăng theo tải đang chở (mục 4.3).
+- $\alpha = 1$, $\beta = 1.5$, $\gamma = 5$ (giá trị mặc định trong `FitnessCalculator`).
+- Khi cài đặt, vi phạm ràng buộc tải trọng và pin được đưa vào $Z$ dưới dạng phạt $\delta = 1000$ (mỗi kg quá tải, mỗi tuyến cạn pin) để thuật toán tìm kiếm vẫn so sánh được các lời giải vi phạm; lời giải cuối cùng phải thỏa các ràng buộc 4.1–4.3 (kiểm tra bằng `DataContractValidator`).
 
 ## 4. Các Ràng buộc (Constraints)
 **4.1. Ràng buộc luồng giao hàng (Flow conservation):**
-Mỗi điểm giao hàng chỉ được phục vụ đúng 1 lần bởi 1 UAV.
-$$ \sum_{k \in K} \sum_{j \in V} x_{ijk} = 1 \quad \forall i \in \text{Delivery Points} $$
+Mỗi điểm giao hàng được phục vụ đúng 1 lần bởi 1 UAV; mỗi tuyến bắt đầu và kết thúc ở Depot.
+$$ \sum_{k \in K} \sum_{j \in V} x_{ijk} = 1 \quad \forall i \in V_D $$
 
-**4.2. Ràng buộc năng lượng pin (Energy constraint):**
-Năng lượng tiêu thụ tỷ lệ thuận với khoảng cách bay và tải trọng mang theo. Pin của Drone không bao giờ được phép giảm xuống dưới mức an toàn $E_{min}$.
-$$ E_j \le E_i - e(d_{ij}, w_j) \quad \text{nếu } x_{ijk} = 1 $$
-Nếu UAV ghé trạm sạc, $E_j = E_{max}$.
+**4.2. Ràng buộc tải trọng (Capacity):**
+Tổng khối lượng hàng trên mỗi tuyến không vượt quá tải tối đa:
+$$ \sum_{i \in V_D} q_i \sum_{j \in V} x_{ijk} \le Q_{max} \quad \forall k \in K $$
 
-**4.3. Ràng buộc vùng cấm bay (No-fly zone constraint):**
+**4.3. Ràng buộc năng lượng pin (Energy constraint):**
+Năng lượng tiêu thụ tỷ lệ thuận với khoảng cách bay và tải đang chở (tải giảm dần sau mỗi điểm giao). Nếu $x_{ijk} = 1$:
+$$ E_j = E_i - d_{ij} \cdot (1 + 0.15 \cdot w_{ij}), \qquad E_0 = B_{max} $$
+- Khi tới **điểm giao hàng** $j \in V_D$: $E_j \ge B_{safe}$.
+- Khi tới **điểm sạc** $j \in S$ (trạm sạc hoặc Depot): $E_j \ge 0$, sau đó pin được sạc đầy, $E_j \leftarrow B_{max}$.
+
+Trong code, `EnergyManager.repair_route_with_charging` chèn điểm sạc khi chặng kế tiếp làm pin xuống dưới $B_{safe}$; tuyến không sửa được bị đánh dấu thiếu pin. Validator chỉ kiểm tra điều kiện cứng $E_j \ge 0$ (tuyến cạn pin là không hợp lệ); ngưỡng $B_{safe}$ là biên an toàn mà bước chèn điểm sạc cố giữ, có thể không đạt khi không điểm sạc nào tới được.
+
+**4.4. Khung giờ giao hàng (Time windows, ràng buộc mềm):**
+$$ t_j = \max(t_i + s_i + d_{ij} / v,\ e_j) \quad \text{nếu } x_{ijk} = 1 $$
+Đến sớm thì chờ tới $e_j$; đến muộn ($t_j > l_j$) không bị cấm nhưng bị phạt $\gamma \cdot (t_j - l_j)$ trong hàm mục tiêu.
+
+**4.5. Ràng buộc vùng cấm bay (No-fly zone constraint):**
 Đường đi thực tế giữa $i$ và $j$ không phải là đường thẳng Euclidean mà là đường đi ngắn nhất $A^*(i, j)$ trên đồ thị lưới không giao cắt với không gian của tập hợp $NFZ$ (No-fly zones).
 $$ A^*(i, j) \cap NFZ = \emptyset \quad \forall i, j \text{ nếu } x_{ijk} = 1 $$

diff --git a/docs/GA_COMPLEXITY_REVIEW.md b/docs/GA_COMPLEXITY_REVIEW.md
@@ -3,6 +3,8 @@
 
 File `docs/COMPLEXITY_AND_CORRECTNESS_ANALYSIS.md` là của TV5. Tài liệu này **chỉ đề xuất**, không sửa file gốc. Mỗi đề xuất có căn cứ: dòng code hoặc số đo tái lập được.
 
+> **Cập nhật 25/10/2026: ĐÃ ÁP DỤNG** vào `COMPLEXITY_AND_CORRECTNESS_ANALYSIS.md` (TV5 cho phép TV1 sửa). Hai điểm đã thay đổi so với nội dung dưới đây: (1) TV3 đã bỏ bước lọc trạm sạc theo $M$ nút (`bb86a29`), nên số hạng $K \cdot M$ không còn, độ phức tạp có EnergyManager gọn thành $O(G \cdot P \cdot (L \cdot C + \log P))$, và bảng mục 3 (đo với EnergyManager cũ) được thay bằng số đo mới; (2) 2-Opt nay chỉ giữ bước đảo không làm tăng chi phí tuyến và validator kiểm tra cạn pin, nên phản ví dụ của Định lý 5 dùng số liệu `GA_TUNING_RESULTS.md` mục 13. Phần dưới giữ nguyên làm lịch sử.
+
 Ký hiệu như file gốc, thêm:
 - $L = N + K - 1$: độ dài chromosome.
 - $\lambda$: hệ số nhân phạt khi chọn lọc (`constraint_penalty_factor`, mặc định 100).
